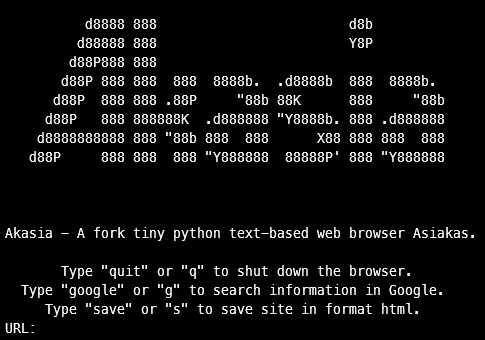
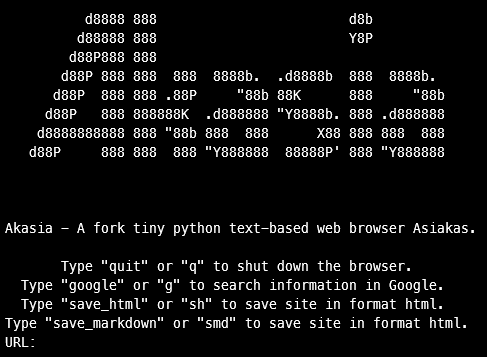
Release 1.3.0
Added possibility save sites in format markdown.

diff --git a/akasia.py b/akasia.py
@@ -88,6 +88,22 @@ def save_site_in_html(site_content: str, path: str) -> None:
     file.write(site_content)
     file.close()
 
+def save_site_in_markdown(site_content: str, path: str) -> None:
+    """
+
+    This function is needed to save the site in markdown format.
+
+    Args:
+        site_content (str): This variable stores the site in html format.
+        path (str): This variable stores path which will saved site in format html.
+
+    Returns:
+        None: The function returns nothing.
+
+    """
+    file = open(path, 'w')
+    file.write(html2text.html2text(site_content))
+    file.close()
 
 def main() -> None:
     """ This is main function, what initializing web browser Akasia. """
@@ -104,7 +120,8 @@ def main() -> None:
     print('Akasia - A fork tiny python text-based web browser Asiakas.\n'.center(58))
     print('Type "quit" or "q" to shut down the browser.'.center(58))
     print('Type "google" or "g" to search information in Google.'.center(58))
-    print('Type "save" or "s" to save site in format html.'.center(58))
+    print('Type "save_html" or "sh" to save site in format html.'.center(58))
+    print('Type "save_markdown" or "smd" to save site in format html.'.center(58))
 
     while True:
         link = input('URL: ')
@@ -115,11 +132,16 @@ def main() -> None:
             link = ('https://google.com/search?q=' + request.replace(' ', '+'))
             cont, req_get = get_request(link)
             print(print_site(cont, req_get))
-        elif link.lower() == 'save' or link.lower() == 's':
+        elif link.lower() == 'save_html' or link.lower() == 'sh':
             link = input('URL: ')
             path = input('Path: ')
             cont, req_get = get_request(link)
             save_site_in_html(cont, path)
+        elif link.lower() == 'save_markdown' or link.lower() == 'smd':
+            link = input('URL: ')
+            path = input('Path: ')
+            cont, req_get = get_request(link)
+            save_site_in_markdown(cont, path)
         else:
             cont, req_get = get_request(link)
             print(print_site(cont, req_get))

diff --git a/setup.py b/setup.py
@@ -5,7 +5,7 @@ setup.py is the Akasia setup file.
 from setuptools import setup
 
 setup(
-    version='1.2.0',
+    version='1.3.0',
     license="MIT License",
     name='Akasia',
     author='Robrecht De Rouck',
